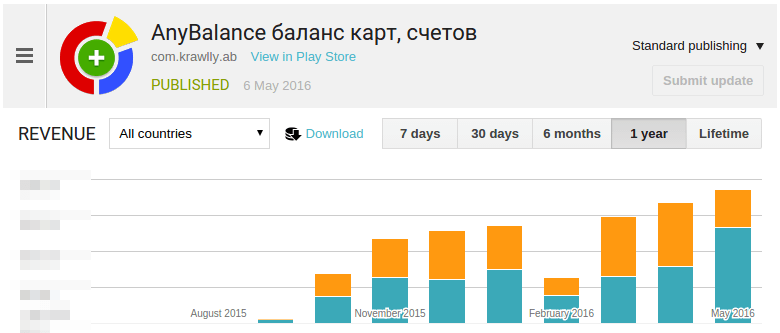
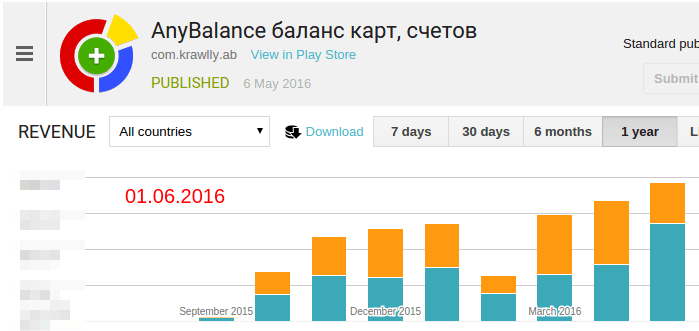
GP_dev_console_finance_revenue.png updated

diff --git a/index.html b/index.html
@@ -542,9 +542,9 @@
 								<ol>
 									<li>Проанализировал возможности мобильного приложения AnyBalance для увеличения продаж, снижения издержек, оптимизации бизнес процессов</li>
 									<li>
-										С 03.2016 провёл комплекс мероприятий по совершенствованию качества продукта и окружения.
+										С 01.03.2016 провёл комплекс мероприятий по совершенствованию качества продукта и окружения.
 										Результат&nbsp;— <mark>увеличил общий доход и количество покупателей на <strong>33%</strong>.
-										Темпы роста&nbsp;— <strong>10%</strong> в месяц.</mark>
+										Увеличил темпы роста до <strong>12%</strong> в месяц.</mark>
 										Затраты на привлечение одного пользователя не изменились.
 									</li>
 									<li>
